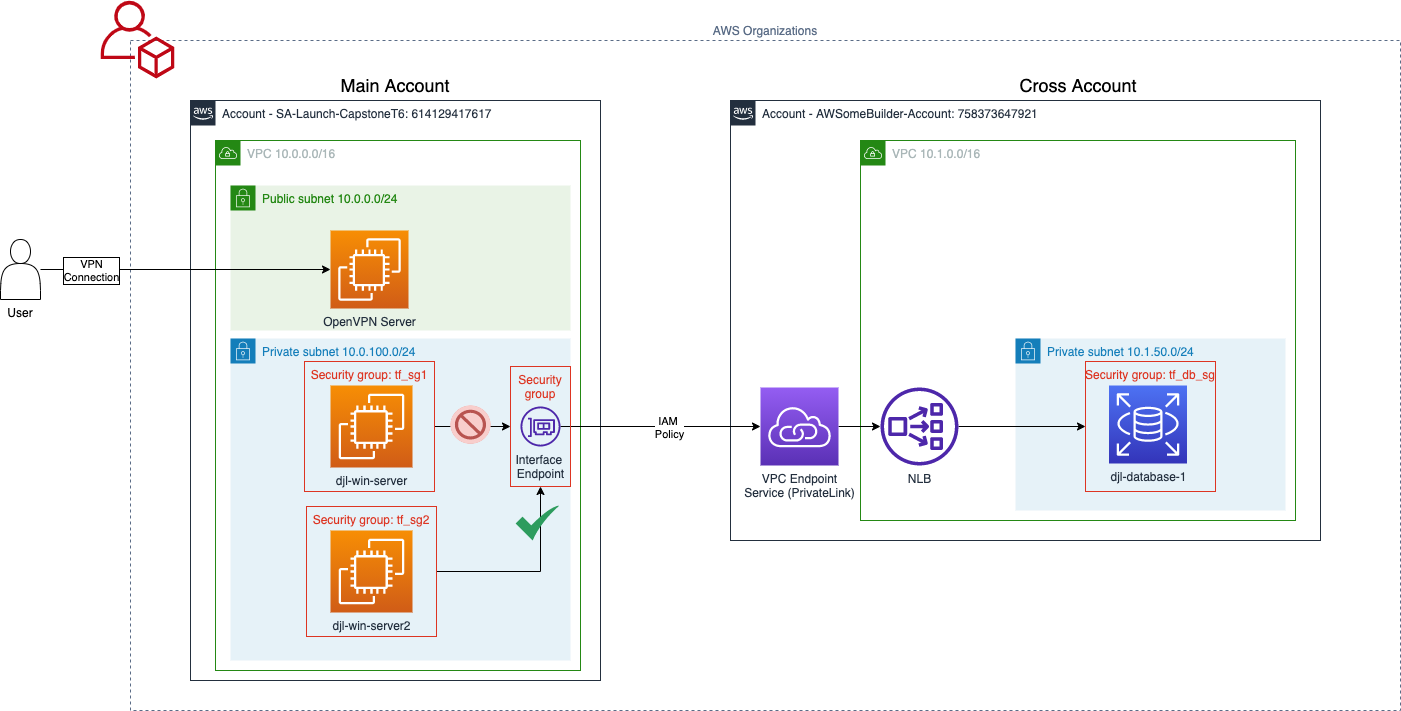
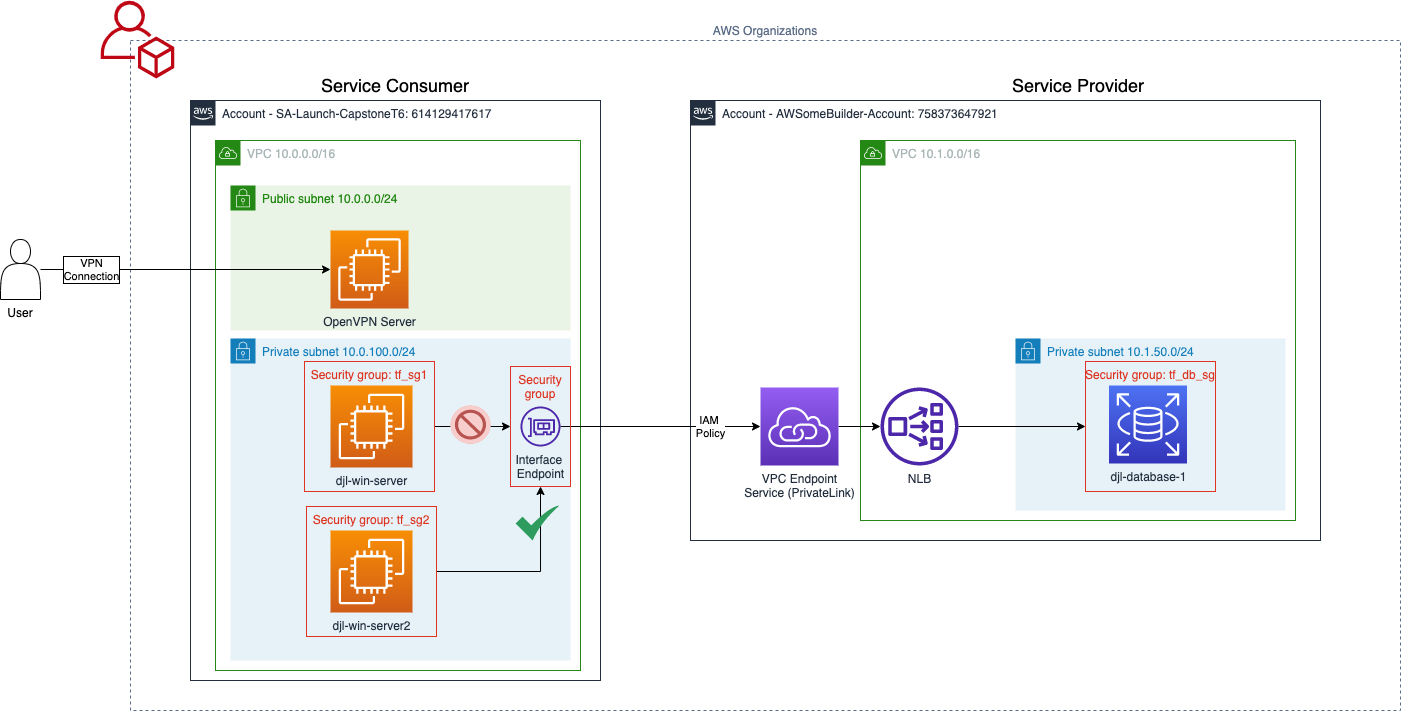
Removed Security Group references for Port 80 NLB Health Check.  Also updated the architecture diagrams and reference links in the README.md.

diff --git a/README.md b/README.md
@@ -62,13 +62,25 @@ terraform destroy
 3. VPC Endpoint Policy
 
 ## Helpful Resources
+AWS PrivateLink
 * [Deep Dive on How to Establish Private Connectivity with AWS Private Link – AWS Online Tech Talks](https://www.youtube.com/watch?v=weN2sCKFquA)
 * [AWS re:Invent 2020: VPC endpoints & PrivateLink: Optimize for security, cost & operations](https://www.youtube.com/watch?v=LNf8jjBt72Y&list=PL2yQDdvlhXf-0zqlk2CIWszLXvyxL6sHi)
+* [AWS re:Invent 2018: Best Practices for AWS PrivateLink (NET301)](https://www.youtube.com/watch?v=85DbVGLXw3Y)
 * [AWS lowers data processing charges for AWS PrivateLink](https://aws.amazon.com/about-aws/whats-new/2021/07/aws-lowers-data-processing-charges-aws-privatelink/)
 * [Leverage AWS PrivateLink to Securely connect Amazon RDS from On-Premise](https://someshsrivastava1983.medium.com/leverage-aws-privatelink-to-securely-connect-amazon-rds-from-on-premise-9bf4bd3184b3)
 * [Control access to services using endpoint policies](https://docs.aws.amazon.com/vpc/latest/privatelink/vpc-endpoints-access.html)
+* [AWS Blog: Hostname-as-Target for Network Load Balancers](https://aws.amazon.com/blogs/networking-and-content-delivery/hostname-as-target-for-network-load-balancers/)
+* [AWS Blog: Using AWS Lambda to enable static IP addresses for Application Load Balancers](https://aws.amazon.com/blogs/networking-and-content-delivery/using-aws-lambda-to-enable-static-ip-addresses-for-application-load-balancers/#:~:text=An%20IP%2Daddress%2Dbased%20target,create%20the%20resources%20for%20us)
+
+
+
+SalesForce
 * [SFDC: Secure Cross-Cloud Integrations with Private Connect](https://help.salesforce.com/s/articleView?id=sf.private_connect_overview.htm&type=5)
 * [SFDC Developer Blog: Using Private Connect to Securely Connect Salesforce and AWS](https://developer.salesforce.com/blogs/2020/10/using-private-connect-to-securely-connect-data-between-salesforce-and-aws)
+
+Amazon Redshift
+* [Announcing cross-VPC support for Amazon Redshift powered by AWS PrivateLink](https://aws.amazon.com/about-aws/whats-new/2021/04/announcing-cross-vpc-support-for-amazon-redshift-powered-by-aws-privatelink/)
+* [AWS Blog: Enable private access to Amazon Redshift from your client applications in another VPC](https://aws.amazon.com/blogs/big-data/enable-private-access-to-amazon-redshift-from-your-client-applications-in-another-vpc/)
 
 RDS Authentication
 * [How do I allow users to authenticate to an Amazon RDS MySQL DB instance using their IAM credentials?](https://aws.amazon.com/premiumsupport/knowledge-center/users-connect-rds-iam/)
